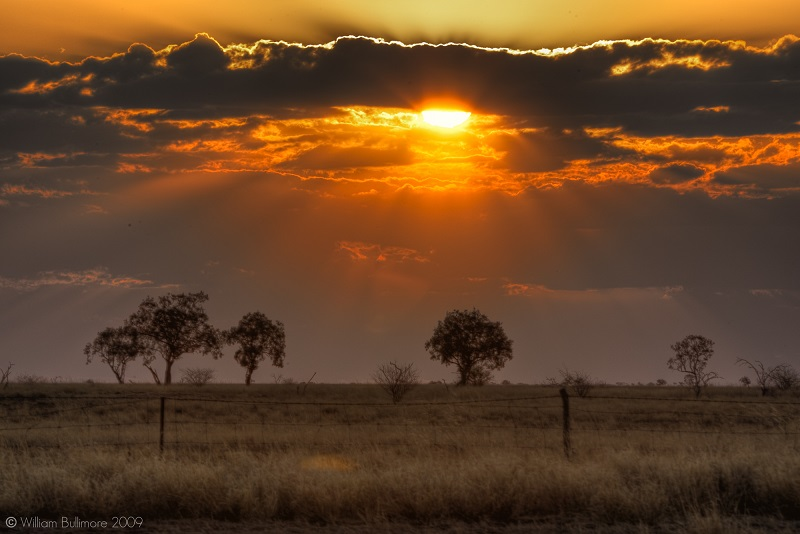
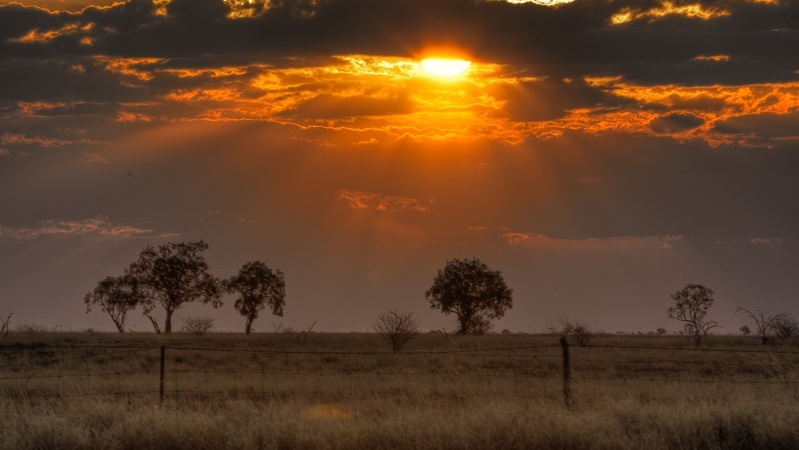
Final layout changes for cards on index.html; cropped all images to 16:9

diff --git a/css/stylez.css b/css/stylez.css
@@ -70,6 +70,7 @@ ul {
 	min-height: 100vh;
 	width: 100%;
 	padding: 20px;
+	padding-top: 78px;
 	background: #30638E;
 	display: flex;
 	flex-direction: row;
@@ -77,9 +78,9 @@ ul {
 }
 
 .page {
-	background: #efefe8;
+	background: #fff;
 	border-radius: 10px;
-	margin: auto;
+	margin: 20px auto;
 	padding: 20px;
 }
 
@@ -95,6 +96,23 @@ ul {
 .page-content {
 	margin: 0;
 	padding: 10px;
+}
+
+.name {
+	font-weight: 600;
+}
+
+.description {
+	max-width: 400px;
+}
+
+.pics {
+	width: 600px;
+	margin: auto;
+}
+
+.card {
+	height: 625px;
 }
 
 
@@ -153,8 +171,15 @@ ul {
 }
 
 
+/*========== Form styles ==========*/
 
+input:invalid {
+    box-shadow: 0 0 5px 1px red;
+}
 
+input:valid {
+    box-shadow: 0 0 5px 1px green;
+}
 
 
 

diff --git a/index.html b/index.html
@@ -36,8 +36,6 @@
 
 	<div id="wrapper">
 
-		<article class="page">
-
 			<div id="cards"></div>
 
 		</article>
